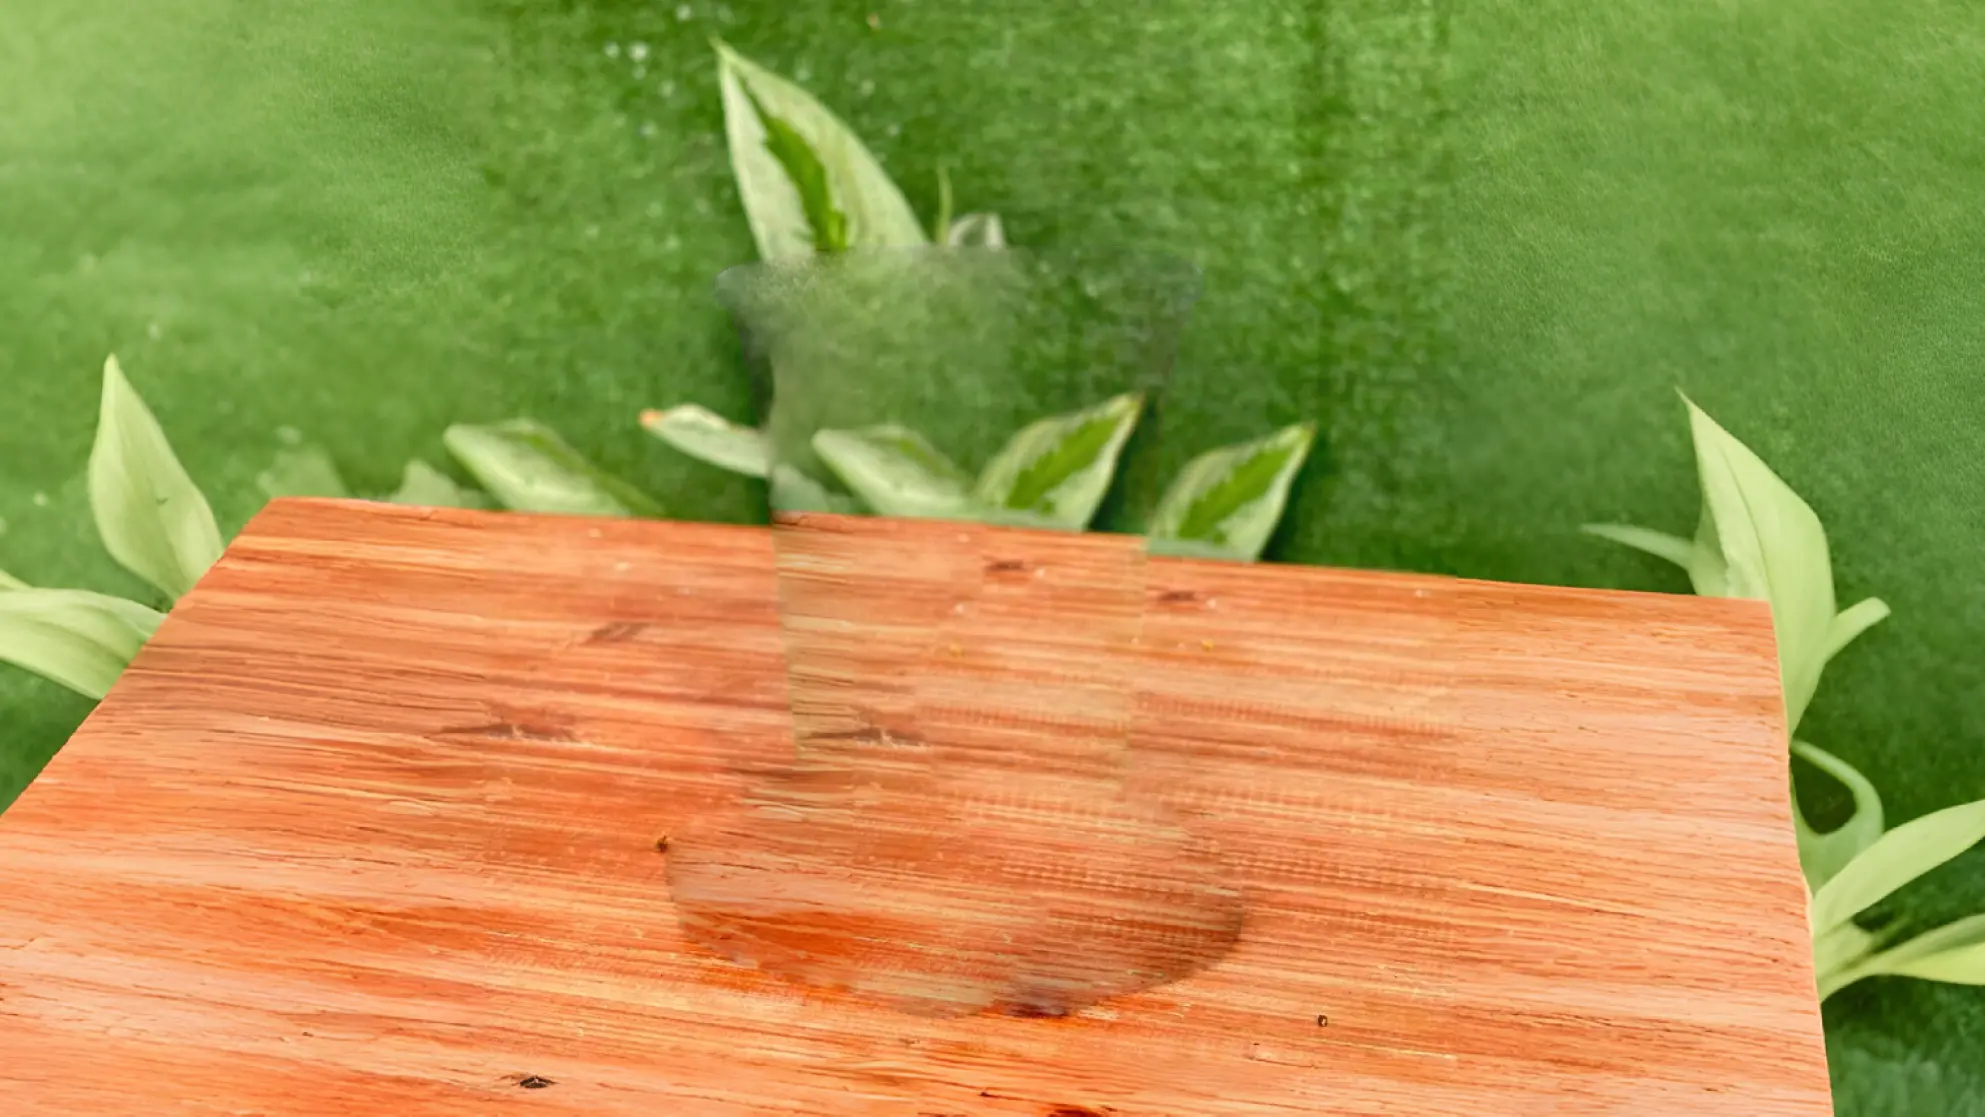
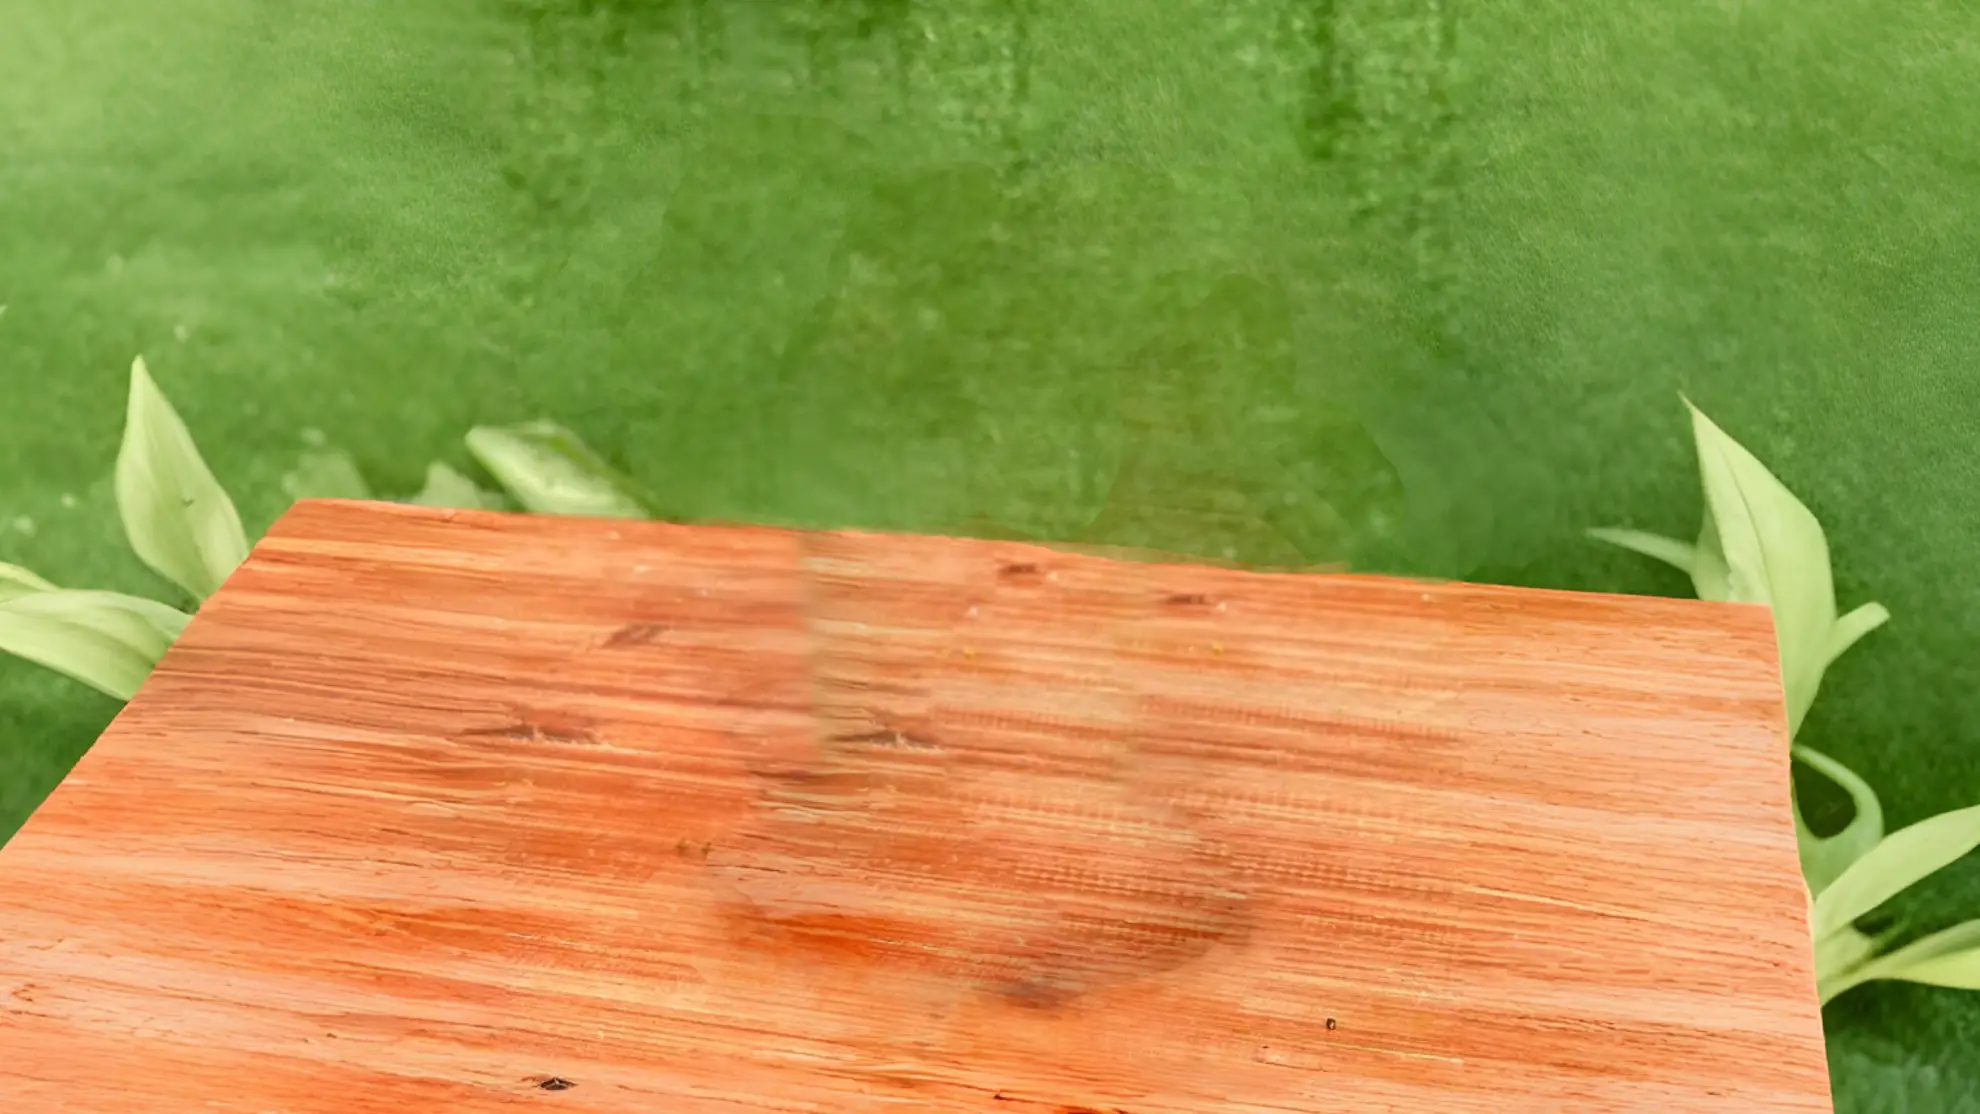
finished hero and nav animations

diff --git a/src/views/landing/Hero.tsx b/src/views/landing/Hero.tsx
@@ -8,9 +8,11 @@ import {
   motion,
   useMotionValue,
   useSpring,
+  useScroll,
+  useTransform,
 } from "motion/react";
 import Image from "next/image";
-import { useEffect, useState } from "react";
+import { useEffect, useRef, useState } from "react";
 
 const QUINT_IN = [1, -0.02, 0.58, 0.94];
 
@@ -37,22 +39,31 @@ const GET_RANDOM_NUMBER = (min: number, max: number) => {
 };
 
 const Hero = () => {
+  const ref = useRef<HTMLDivElement>(null);
+
+  const { scrollY, scrollYProgress } = useScroll({
+    target: ref,
+    offset: ["end end", "end start"],
+  });
+
+  const translateY = useTransform(scrollYProgress, [0, 0.7], [0, -50]);
+  const coffee_translateY = useTransform(scrollYProgress, [0, 0.7], [0, -60]);
+
+  const text_animation = {
+    translateY: useTransform(scrollYProgress, [0, 0.7], [0, -140]),
+    opacity: useTransform(scrollYProgress, [0.1, 0.7], [1, 0]),
+  };
+
+  const [blurAmount, setBlurAmount] = useState(0);
   const [image1Loaded, setImage1Loaded] = useState(false);
   const [image2Loaded, setImage2Loaded] = useState(false);
   const [profile, setProfile] = useState<null | number>(null);
 
-
   const mouseX = useMotionValue(0);
   const mouseY = useMotionValue(0);
 
-  const bgMouseX = useMotionValue(0);
-  const bgMouseY = useMotionValue(0);
-
   const springX = useSpring(mouseX, { stiffness: 50, damping: 20 });
   const springY = useSpring(mouseY, { stiffness: 50, damping: 20 });
-
-  const bgSpringX = useSpring(bgMouseX, { stiffness: 50, damping: 20 });
-  const bgSpringY = useSpring(bgMouseY, { stiffness: 50, damping: 20 });
 
   const imageLoaded = image1Loaded && image2Loaded && profile;
 
@@ -68,6 +79,44 @@ const Hero = () => {
       duration: 0.3,
     },
   };
+
+  useEffect(() => {
+    const getScrollY = (value: number) => {
+      if (!ref.current) return;
+
+      const heroHeight = ref.current.offsetHeight;
+      const heroStart = ref.current.offsetTop;
+      const heroMiddle = heroStart + heroHeight / 3;
+
+      const normalizedValue = Math.min(
+        Math.max(((value - heroMiddle) / heroHeight) * 20, -10),
+        10
+      );
+
+      setBlurAmount(normalizedValue);
+    };
+
+    const unsubscribe = scrollY.on("change", getScrollY);
+
+    return () => {
+      unsubscribe();
+    };
+  }, []);
+
+  useEffect(() => {
+    const handleMouseMove = (event: MouseEvent) => {
+      const { clientX, clientY } = event;
+
+      mouseX.set(-(clientX / window.innerHeight - 0.5) * 10);
+      mouseY.set(-(clientY / window.innerWidth - 0.5) * 10);
+    };
+
+    window?.addEventListener("mousemove", handleMouseMove);
+
+    return () => {
+      window?.removeEventListener("mousemove", handleMouseMove);
+    };
+  }, []);
 
   useEffect(() => {
     const profile = localStorage.getItem("landing_profile");
@@ -86,27 +135,8 @@ const Hero = () => {
     setProfile(random_number);
   }, []);
 
-  useEffect(() => {
-    const handleMouseMove = (event: MouseEvent) => {
-      const { clientX, clientY } = event;
-
-      mouseX.set(-(clientX / window.innerHeight - 0.5) * 20);
-      mouseY.set(-(clientY / window.innerWidth - 0.5) * 20);
-
-      bgMouseX.set(-(clientX / window.innerHeight - 0.5) * 10);
-      bgMouseY.set(-(clientY / window.innerWidth - 0.5) * 10);
-    };
-
-    window?.addEventListener("mousemove", handleMouseMove);
-
-
-    return () => {
-      window?.removeEventListener("mousemove", handleMouseMove);
-    };
-  }, []);
-
   return (
-    <div className="min-h-screen  bg-orange">
+    <div ref={ref} className="h-screen bg-orange">
       <AnimatePresence>
         {profile && (
           <motion.div
@@ -135,8 +165,8 @@ const Hero = () => {
                   id="image-animate-div"
                   className="h-full"
                   style={{
-                    x: bgSpringX,
-                    y: bgSpringY,
+                    translateY,
+                    filter: `blur(${blurAmount}px)`,
                   }}
                 >
                   <Image
@@ -149,6 +179,9 @@ const Hero = () => {
                   />
                 </motion.div>
                 <motion.h1
+                  style={{
+                    ...text_animation,
+                  }}
                   animate={
                     imageLoaded
                       ? {
@@ -195,6 +228,8 @@ const Hero = () => {
                   style={{
                     x: springX,
                     y: springY,
+                    translateY: coffee_translateY,
+                    filter: `blur(${blurAmount}px)`,
                   }}
                 >
                   <Image
@@ -207,7 +242,7 @@ const Hero = () => {
                   />
                 </motion.div>
 
-                <div className="absolute left-0 top-0 h-full w-full bg-gradient-to-b from-transparent via-transparent to-black/50"></div>
+                <div className="fixed left-0 top-0 h-full w-full bg-gradient-to-b from-transparent via-transparent to-black/50"></div>
               </div>
 
               <div className="absolute bottom-10 left-0 right-0 z-10 mx-auto flex w-full flex-col items-center  justify-center gap-4">

diff --git a/src/components/Nav.tsx b/src/components/Nav.tsx
@@ -2,13 +2,15 @@
 /* eslint-disable @typescript-eslint/no-unsafe-assignment */
 "use client";
 
+import { cn } from "@/lib/utils";
 import Image from "next/image";
 import { useEffect, useState } from "react";
 import { FaFacebook, FaInstagram } from "react-icons/fa";
 
 const Nav = () => {
-  const [, setScrollPosition] = useState(0);
-  const [, setScrollDirection] = useState(-1);
+  const [scrollPosition, setScrollPosition] = useState(0);
+  const [scrollDirection, setScrollDirection] = useState(-1);
+  console.log("🚀 ~ Nav ~ scrollDirection:", scrollDirection);
 
   const handleScroll = () => {
     const position = window.scrollY;
@@ -69,9 +71,23 @@ const Nav = () => {
     },
   ];
 
+  const show_nav = scrollDirection === -1 && scrollPosition > 100;
+
   return (
-    <nav className="fixed left-0 top-0 z-50 flex w-full items-start justify-between p-5 font-sans">
-      <ul className="flex w-full items-center gap-4">
+    <nav
+      className={cn(
+        "fixed left-0 top-0 drop-shadow-md z-50 flex w-full items-start justify-between p-5 font-sans transition-all duration-500 ease-in-out",
+        {
+          "-translate-y-full opacity-0": scrollDirection === 1,
+          "bg-white": show_nav,
+        },
+      )}
+    >
+      <ul
+        className={cn("flex w-full items-center gap-4", {
+          invert: show_nav,
+        })}
+      >
         {NAV_ITEMS.map((item, index) => (
           <li
             key={index}
@@ -87,19 +103,22 @@ const Nav = () => {
           width={150}
           height={150}
           src="/logo-white.png"
-          className="w-28"
+          className={cn('w-28 transition-all ease-in-out duration-500', {
+            'invert w-10': show_nav
+          })}
         />
       </div>
-      <ul className="w-full flex items-center justify-end gap-4">
+      <ul className={cn("flex w-full items-center justify-end gap-4", {
+        invert: show_nav,
+      })}>
         {SOCIALS.map((item, index) => (
           <a
             href={`${item.url}`}
             rel="noopener noreferrer"
             target="_blank"
             key={index}
-            
           >
-            <li className="rounded-full bg-white/10 px-4 py-2 items-center gap-2 text-white flex">
+            <li className="flex items-center gap-2 rounded-full bg-white/10 px-4 py-2 text-white">
               <item.icon />
               <p>{item.label}</p>
             </li>

diff --git a/src/app/page.tsx b/src/app/page.tsx
@@ -7,7 +7,8 @@ const page = () => {
     <div className="relative">
       {/* <Nav /> */}
       <Hero />
-      <div className="w-full h-screen bg-transparent"></div>
+      <div className="w-full h-screen z-20 relative">
+      </div>
       {/* <Second /> */}
       <About />
       {/* <Location/> */}
